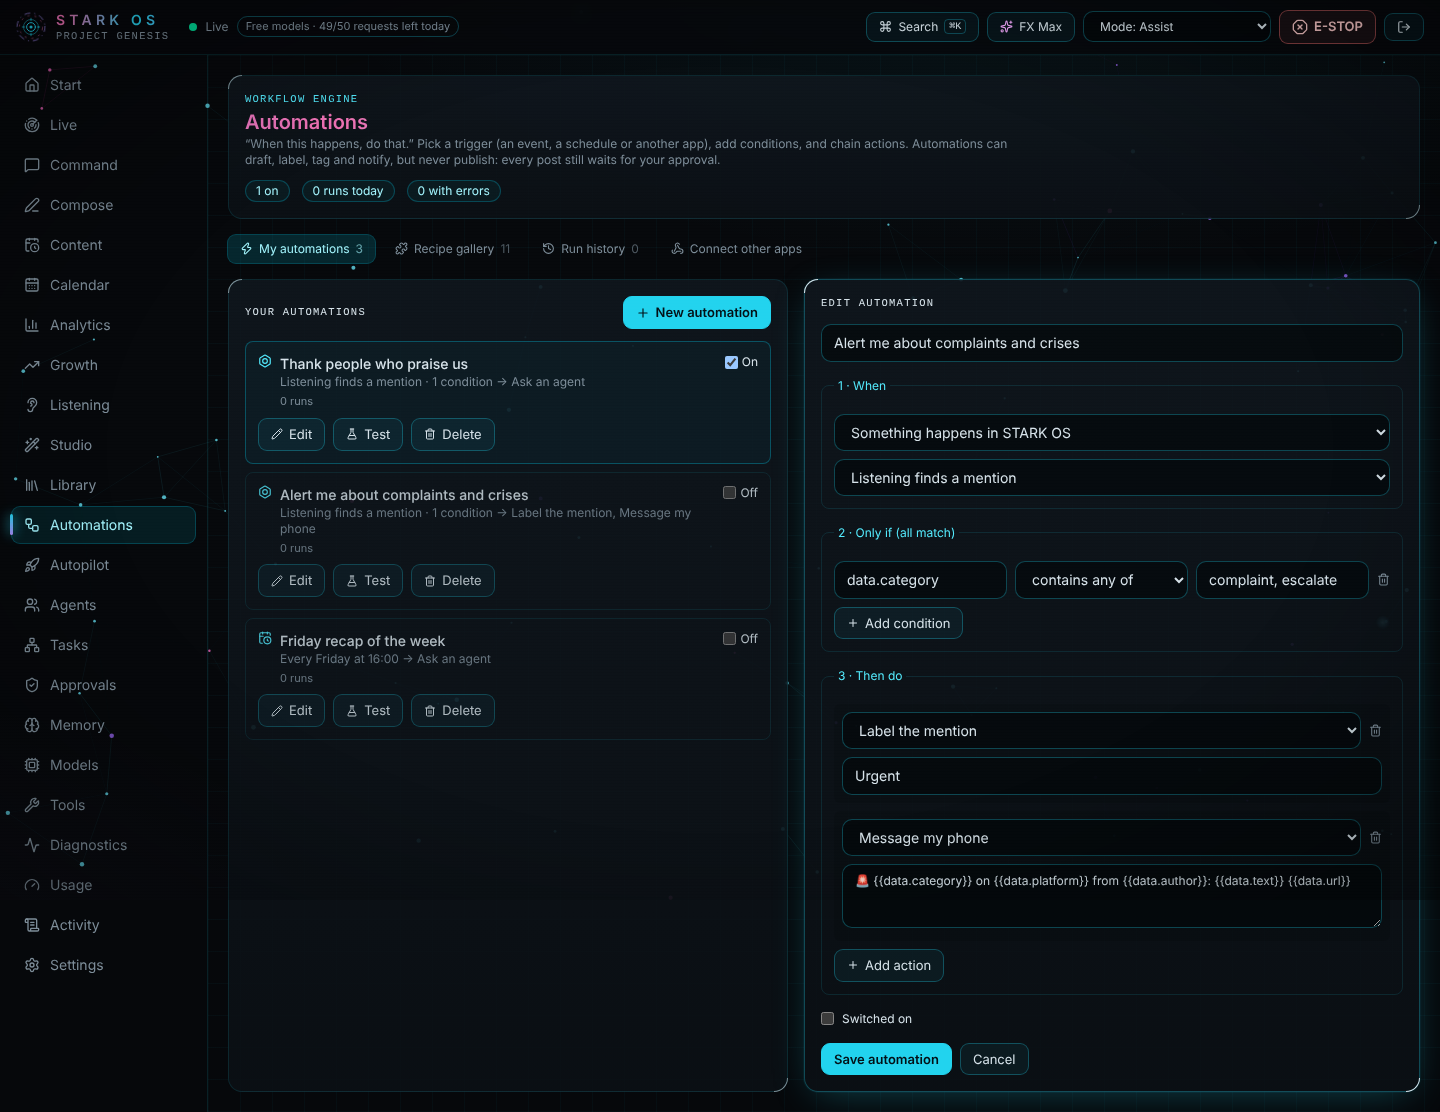
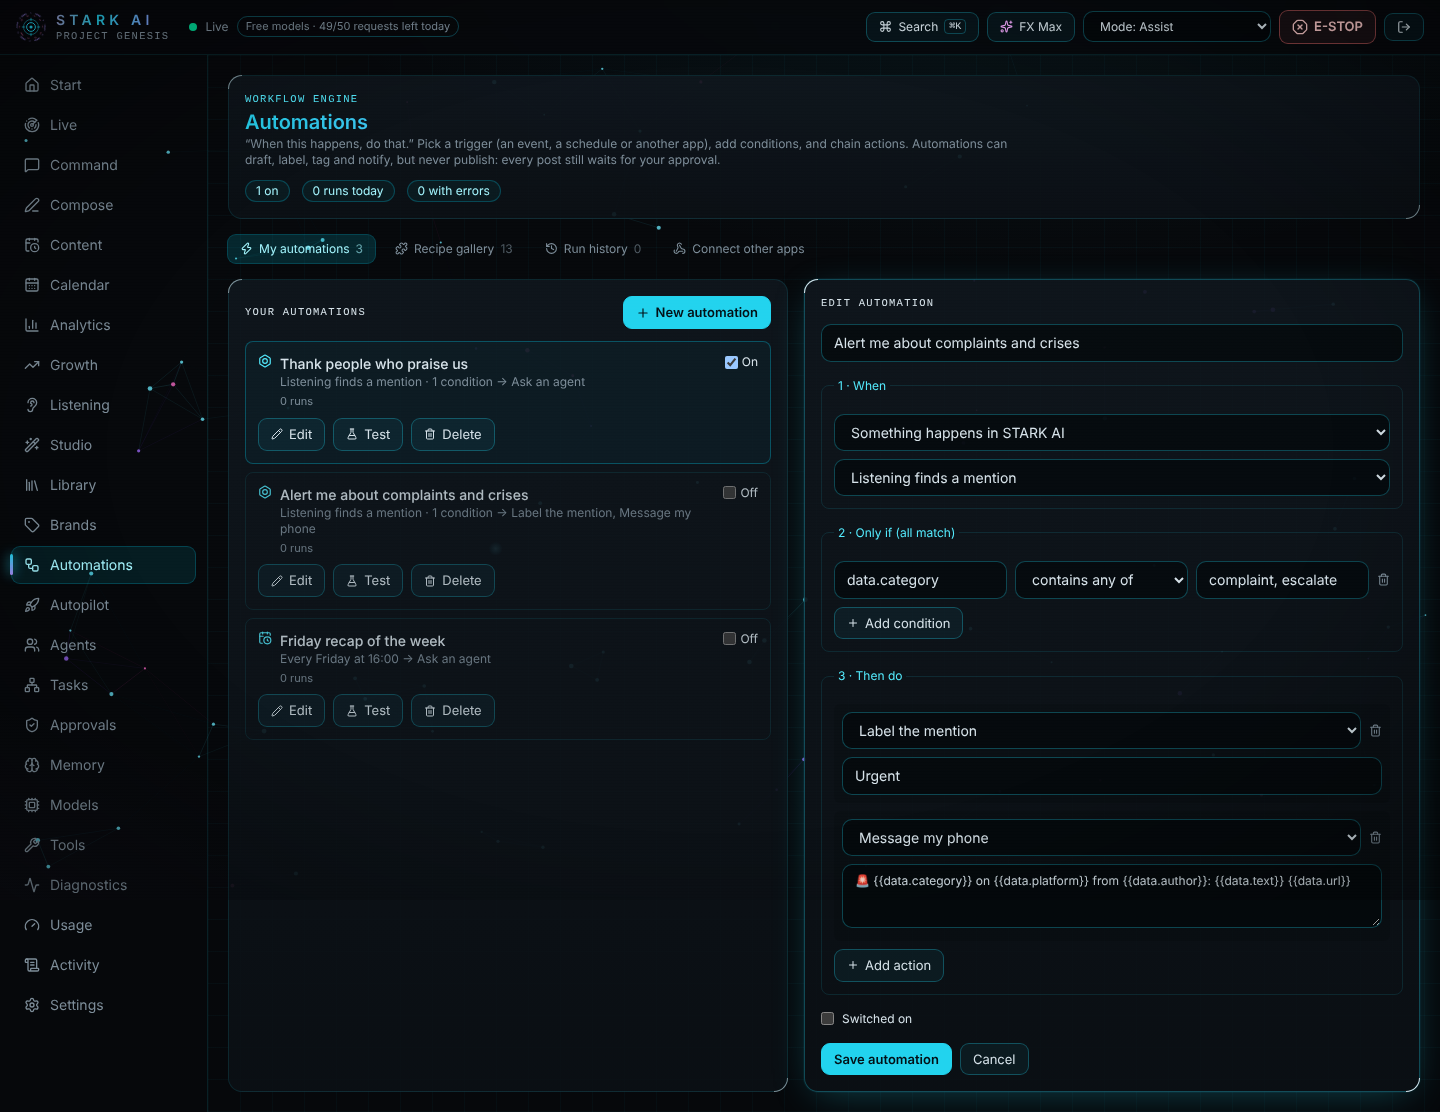
1.12.0: STARK AI, Vision and Wanda, login renewal, real engagement (#41)
New screenshots, demo and preview image; release notes file; automatic tagging and installer builds on version bumps.

diff --git a/apps/web/components/HomeView.tsx b/apps/web/components/HomeView.tsx
@@ -11,7 +11,7 @@ const STEPS = [
   { icon: MessageSquare, title: "1. Ask", text: "Type what you want in Command, like “EDITH, write a post about my new video”. Address an agent by name, or just talk to J.A.R.V.I.S." },
   { icon: Users, title: "2. The team works", text: "Agents draft, check rules and brand safety, research facts and stress-test the post. Every draft lands in Content." },
   { icon: ShieldCheck, title: "3. You approve", text: "In Content, read the exact text and choose Publish now, Schedule, or Copy text. Nothing is posted without you." },
-  { icon: Send, title: "4. It goes out", text: "Bluesky and Mastodon post for real. Approved scheduled posts go out on their own at the right time while STARK AI is running." },
+  { icon: Send, title: "4. It goes out", text: "Your connected platforms post for real. Approved scheduled posts go out on their own at the right time while STARK AI is running." },
 ];
 
 const QUICK = [
@@ -49,7 +49,7 @@ export function HomeView({ talkTo, go }: { talkTo: (agentId: string, text?: stri
     {
       done: connected.length > 0,
       label: "Connect a social account",
-      hint: connected.length ? `Live: ${connected.map((a) => a.connected_as || a.name).join(", ")}` : "Bluesky or Mastodon, two minutes, free. Other platforms work as drafts you copy.",
+      hint: connected.length ? `Live: ${connected.map((a) => a.connected_as || a.name).join(", ")}` : "Bluesky, Mastodon, Threads, Instagram, LinkedIn, YouTube and more. Platforms you skip work as drafts you copy.",
       action: () => go("content"),
     },
     { done: items.length > 0, label: "Create your first post", hint: items.length ? `${items.length} post(s) so far.` : "Ask E.D.I.T.H. to write one.", action: () => talkTo("edith", QUICK[0].text) },
@@ -63,7 +63,7 @@ export function HomeView({ talkTo, go }: { talkTo: (agentId: string, text?: stri
         <div className="hud-label mb-1 text-cyan-300">Welcome</div>
         <h1 className="holo-text text-xl font-semibold">Your AI social media team</h1>
         <p className="mt-1 max-w-3xl text-sm text-[var(--color-mute)]">
-          Seven agents write, check, research and schedule your posts. You stay in charge: every post is shown to you before it goes out, and everything runs on your computer with free AI models.
+          Talk to Vision or Wanda, or to any of the seven specialist agents: they write, check, research and schedule your posts. You stay in charge: every post is shown to you before it goes out, and everything runs on your computer with free AI models.
         </p>
         <div className="mt-4 grid gap-3 [&>*]:min-w-0 sm:grid-cols-2 lg:grid-cols-4">
           {STEPS.map((s) => (

diff --git a/apps/web/components/AutopilotView.tsx b/apps/web/components/AutopilotView.tsx
@@ -613,7 +613,7 @@ function CampaignForm({ initial, searchConfigured, onDone }: { initial: Campaign
             </label>
           ))}
         </div>
-        <p className="mb-3 text-xs text-[var(--color-mute)]">Bluesky and Mastodon post for real once connected (Content page). The others are drafted and published as labelled simulations.</p>
+        <p className="mb-3 text-xs text-[var(--color-mute)]">Connected platforms post for real (connect them in Content). Platforms you have not connected are drafted and published as labelled simulations.</p>
         <div className="grid gap-3 md:grid-cols-3">
           <Field label="Posting times" hint="24-hour, comma separated"><input className="input" value={f.times} onChange={(e) => set({ times: e.target.value })} /></Field>
           <Field label="Time zone"><input className="input" value={f.timezone} onChange={(e) => set({ timezone: e.target.value })} /></Field>

diff --git a/apps/web/app/manifest.ts b/apps/web/app/manifest.ts
@@ -7,7 +7,7 @@ export default function manifest(): MetadataRoute.Manifest {
   return {
     name: "STARK AI",
     short_name: "STARK AI",
-    description: "Your AI social media team: seven agents that ask before they post.",
+    description: "Your AI social media team: Vision, Wanda and seven agents that ask before they post.",
     start_url: "/",
     display: "standalone",
     background_color: "#06080b",

diff --git a/services/api/stark/__init__.py b/services/api/stark/__init__.py
@@ -1,3 +1,3 @@
 """STARK AI - Project Genesis: a governed multi-agent social media team."""
 
-__version__ = "1.11.0"
+__version__ = "1.12.0"

diff --git a/docs/releases/v1.12.0.md b/docs/releases/v1.12.0.md
@@ -1,0 +1,18 @@
+# STARK AI 1.12.0
+
+**STARK OS is now STARK AI.** Same app, same team, new name. Your settings, connected accounts, posts and history carry over.
+
+**Updating from 1.11 or older:** download the installer below once and install it over the old app. (Older versions can't follow the new project address, so they won't offer this update themselves.) From 1.12.0 on, updates arrive inside the app again. On a Mac you can delete the old "STARK OS" app from Applications afterwards; on Windows the installer removes it for you.
+
+## New
+- **Vision and Wanda**, two assistants you talk to by name. Vision helps with strategy, analytics and account health; Wanda writes posts, captions and campaigns. Both also help with general questions, can draft and check posts, read analytics, and call in the seven specialists after you approve what they share. Publishing still needs your approval.
+- **Logins that don't run out.** Instagram and Threads logins are renewed about once a week, Pinterest through STARK Connect. LinkedIn (which can't be renewed) warns you 10 days before it ends.
+- **Real engagement** for Instagram (likes, comments), YouTube (likes, comments, views) and Pinterest (reactions, saves, comments, impressions, clicks).
+- **Encrypted logins on your computer.** The desktop app encrypts saved accounts and keys; the key lives in the macOS Keychain or Windows Credential Manager.
+
+## Fixes
+- Security: sign-in pages escape their links and show only cleaned error messages; Diagnostics no longer shows full crash logs; the PDF reader is updated to a patched version.
+- A provider you pinned is always respected; connection errors never include tokens.
+- Analytics loads faster; social listening errors are logged.
+
+Installers are not signed yet: on a Mac right-click → **Open** the first time; on Windows choose **More info → Run anyway**.
